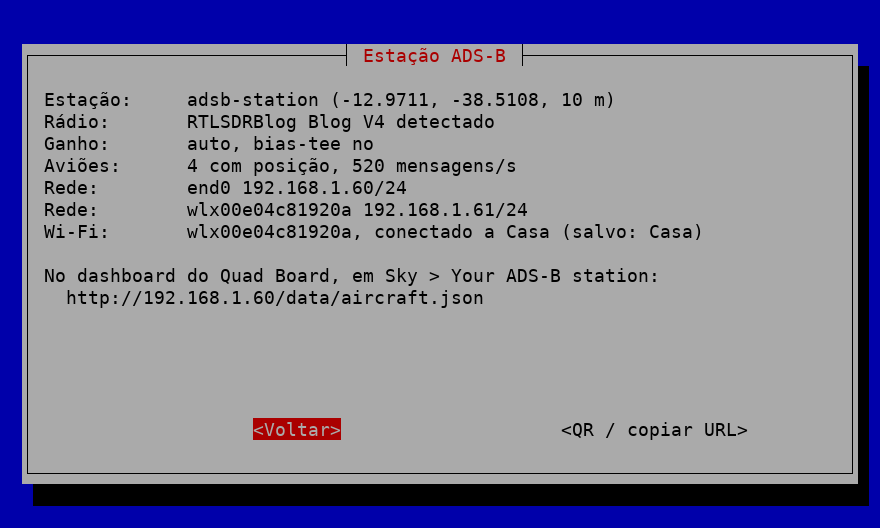
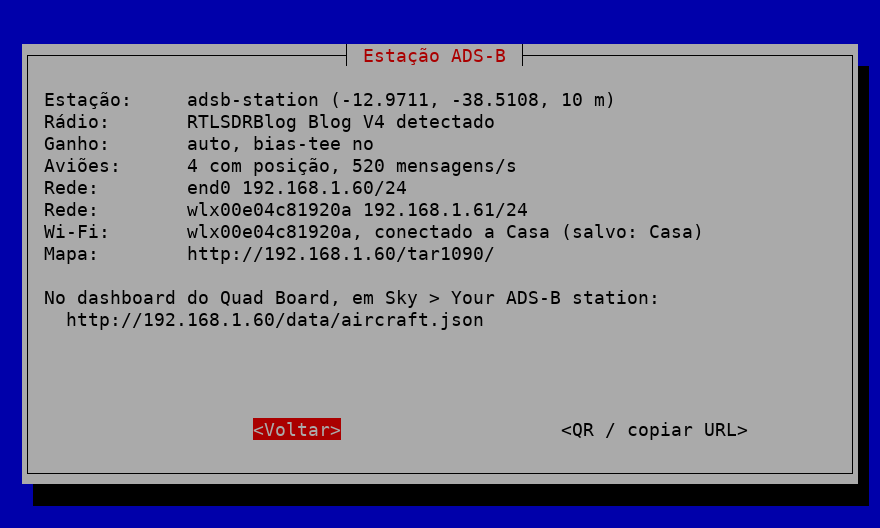
Station: install, update and remove the tar1090 map from adsb-config
The map was only installed at first boot, with internet; afterwards there
was no tool for it. Now:

- adsb-config has a 'Mapa ao vivo (tar1090)' menu item and
  'adsb-config map [install|update|remove]'; status shows the map's address
- common.sh: map_installed, map_install, map_remove, shared by adsb-config,
  adsb-firstboot and adsb-webpage. The home page is refreshed after
  installing, so first boot no longer leaves the map link off until the timer
- screenshots regenerated, with the two new map screens

Changed region(s): [[0.0307, 0.4545, 0.7364, 0.6364]]

diff --git a/station/screens/capture.py b/station/screens/capture.py
@@ -28,7 +28,7 @@ FONT_REG = "/usr/share/fonts/truetype/dejavu/DejaVuSansMono.ttf"
 COLS, ROWS = 80, 24
 
 DOWN, ENTER, TAB = b"\x1b[B", b"\r", b"\t"
-SCREENS = [  # name, keys from the main menu
+SCREENS = [  # name, keys from the main menu[, extra environment]
     ("menu", []),
     ("status", [ENTER]),
     ("location", [DOWN, ENTER]),
@@ -36,6 +36,8 @@ SCREENS = [  # name, keys from the main menu
     ("wifi-scan", [DOWN, DOWN, ENTER, ENTER]),
     ("wifi-password", [DOWN, DOWN, ENTER, ENTER, ENTER, b"minhasenha"]),
     ("radio", [DOWN, DOWN, DOWN, ENTER]),
+    ("map", [DOWN] * 5 + [ENTER], {"DEMO_MAP": "no"}),   # offers to install it
+    ("map-installed", [DOWN] * 5 + [ENTER]),             # update / remove
     ("qr", [ENTER, TAB, ENTER]),          # Estado > "QR / copiar URL"
 ]
 
@@ -58,11 +60,11 @@ def color(name, bold, default):
     return (BRIGHT if bold else PALETTE).get(name, default)
 
 
-def grab(keys, state, run):
+def grab(keys, state, run, extra=None):
     # NEWT_COLORS: Debian's blue background (Ubuntu repaints whiptail purple)
     env = dict(os.environ, TERM="xterm", LANG="C.UTF-8", LC_ALL="C.UTF-8", NEWT_COLORS="root=white,blue",
                ADSB_LIB=os.path.join(HERE, "demo.sh"), ADSB_STATE=state, ADSB_RUN=run,
-               ADSB_NO_SYSTEMD="1", ADSB_IWD_DIR=os.path.join(run, "iwd"))
+               ADSB_NO_SYSTEMD="1", ADSB_IWD_DIR=os.path.join(run, "iwd"), **(extra or {}))
     pid, fd = pty.fork()
     if pid == 0:
         os.execve("/bin/bash", ["bash", CONFIG], env)
@@ -150,13 +152,13 @@ def main():
                     os.path.join(run, "aircraft.json"))
         with open(os.path.join(run, "stats.json"), "w") as f:
             f.write('{"last1min": {"messages": 31200}}')
-        for name, keys in SCREENS:
+        for name, keys, *extra in SCREENS:
             state = os.path.join(tmp, f"{name}.conf")
             with open(state, "w") as f:
                 f.write("HOSTNAME=adsb-station\nUSERNAME=adsb\nLAT=-12.9711\nLON=-38.5108\nALT_M=10\n"
                         "GAIN=auto\nBIAS_TEE=no\nWIFI_COUNTRY=BR\nWIFI_SSID=Casa\n")
             path = os.path.join(OUT, f"{name}.png")
-            screen, raw = grab(keys, state, run)
+            screen, raw = grab(keys, state, run, *extra)
             draw(screen, path)
             if name == "qr":
                 import base64

diff --git a/station/README.md b/station/README.md
@@ -72,23 +72,17 @@ A estação tem um servidor web (lighttpd), que serve três coisas:
 
 O resto vem dentro da imagem e funciona sem internet. O [tar1090](https://github.com/wiedehopf/tar1090) não vem: o primeiro boot roda o instalador oficial, que o baixa do GitHub com o banco de aeronaves. Por isso o mapa é opcional. Ele só é instalado com `TAR1090=yes` (o padrão) e internet no primeiro boot. O Quad Board não usa o mapa, então a estação funciona igual sem ele.
 
-**Ele foi instalado?** A página `http://adsb-station.local/` mostra o link **mapa (tar1090)** quando o mapa existe. No log do primeiro boot, procure a linha `--- tar1090 map`: em seguida vem `no internet: tar1090 skipped` ou `tar1090 install failed`, se não deu certo.
+**Ele foi instalado?** A página `http://adsb-station.local/` mostra o link **mapa (tar1090)**, e o `adsb-config status` tem a linha `Mapa:` com o endereço, ou `não instalado`. No log do primeiro boot, a linha `--- tar1090 map` vem seguida do motivo, se não deu certo.
 
-**Instalar depois** (ou atualizar, que usa o mesmo comando), por SSH, com a estação na internet:
-
-```sh
-sudo bash -c "$(curl -fsSL https://raw.githubusercontent.com/wiedehopf/tar1090/master/install.sh)"
-sudo systemctl start adsb-webpage     # a página da estação passa a mostrar o link do mapa
-```
-
-O instalador acha o lighttpd e os dados do readsb (`/run/readsb`) e publica o mapa só em `/tar1090/`, sem mexer na página da estação. Leva poucos minutos.
-
-**Remover:**
+**Instalar depois, atualizar ou remover:** `sudo adsb-config`, opção **Mapa ao vivo (tar1090)**, com a estação na internet. Ou pelos comandos:
 
 ```sh
-sudo bash /usr/local/share/tar1090/uninstall.sh   # também reinicia o lighttpd
-sudo systemctl start adsb-webpage                 # tira o link da página
+sudo adsb-config map install     # instala; "update" faz o mesmo e baixa a versão nova
+sudo adsb-config map remove
+adsb-config map                  # o endereço do mapa, ou "não instalado"
 ```
+
+A instalação usa o instalador oficial do tar1090, mostra o andamento na tela e leva poucos minutos. O instalador acha o lighttpd e os dados do readsb (`/run/readsb`) e publica o mapa só em `/tar1090/`, sem mexer na página da estação. Ao terminar, a página da estação ganha (ou perde) o link do mapa.
 
 ## `adsb-config`: configurar depois
 
@@ -104,11 +98,12 @@ Abre um menu, no estilo do `omv-firstaid` do OpenMediaVault:
 
 | Opção | Faz |
 |---|---|
-| Estado da estação | rádio detectado, readsb, aviões com posição, mensagens/s, IPs, Wi-Fi e a URL para colar no dashboard do servidor; o botão **QR / copiar URL** mostra um QR Code dessa URL e a copia para a área de transferência |
+| Estado da estação | rádio detectado, readsb, aviões com posição, mensagens/s, IPs, Wi-Fi, o endereço do mapa e a URL para colar no dashboard do servidor; o botão **QR / copiar URL** mostra um QR Code dessa URL e a copia para a área de transferência |
 | Localização da antena | latitude, longitude e altitude; reinicia o readsb |
 | Rede Wi-Fi | procura redes e conecta, aceita rede oculta digitando o nome, define o país dos canais, desliga |
 | Rádio | ganho (auto ou fixo), bias-tee e correção em ppm |
 | Nome na rede | muda o `<nome>.local` |
+| Mapa ao vivo (tar1090) | instala o [mapa](#mapa-tar1090) da internet; depois de instalado, atualiza ou remove |
 | Senha, logs, reiniciar | trocar a senha do usuário, ver os logs do readsb e do primeiro boot, reiniciar o readsb ou a placa |
 
 | | |
@@ -116,6 +111,7 @@ Abre um menu, no estilo do `omv-firstaid` do OpenMediaVault:
 | ![Estado da estação](../docs/img/station/status.png) | ![Localização da antena](../docs/img/station/location.png) |
 | ![Menu do Wi-Fi](../docs/img/station/wifi.png) | ![Redes encontradas](../docs/img/station/wifi-scan.png) |
 | ![Senha do Wi-Fi](../docs/img/station/wifi-password.png) | ![Ganho do rádio](../docs/img/station/radio.png) |
+| ![Instalar o mapa](../docs/img/station/map.png) | ![Mapa instalado: atualizar ou remover](../docs/img/station/map-installed.png) |
 | ![QR Code da URL no terminal](../docs/img/station/qr.png) | |
 
 As telas são geradas a partir do menu real, com dados de exemplo (`python3 station/screens/capture.py`, como root, com `whiptail`, `jq` e `pip install pyte`). O script não altera nada na máquina.
@@ -132,6 +128,7 @@ sudo adsb-config wifi-scan
 sudo adsb-config wifi-off
 sudo adsb-config radio 49.6 no                  # ganho, bias-tee [ppm]
 sudo adsb-config hostname radar-casa
+sudo adsb-config map install                    # o mapa tar1090; também update, remove
 ```
 
 O `status` também aparece ao entrar por SSH.
